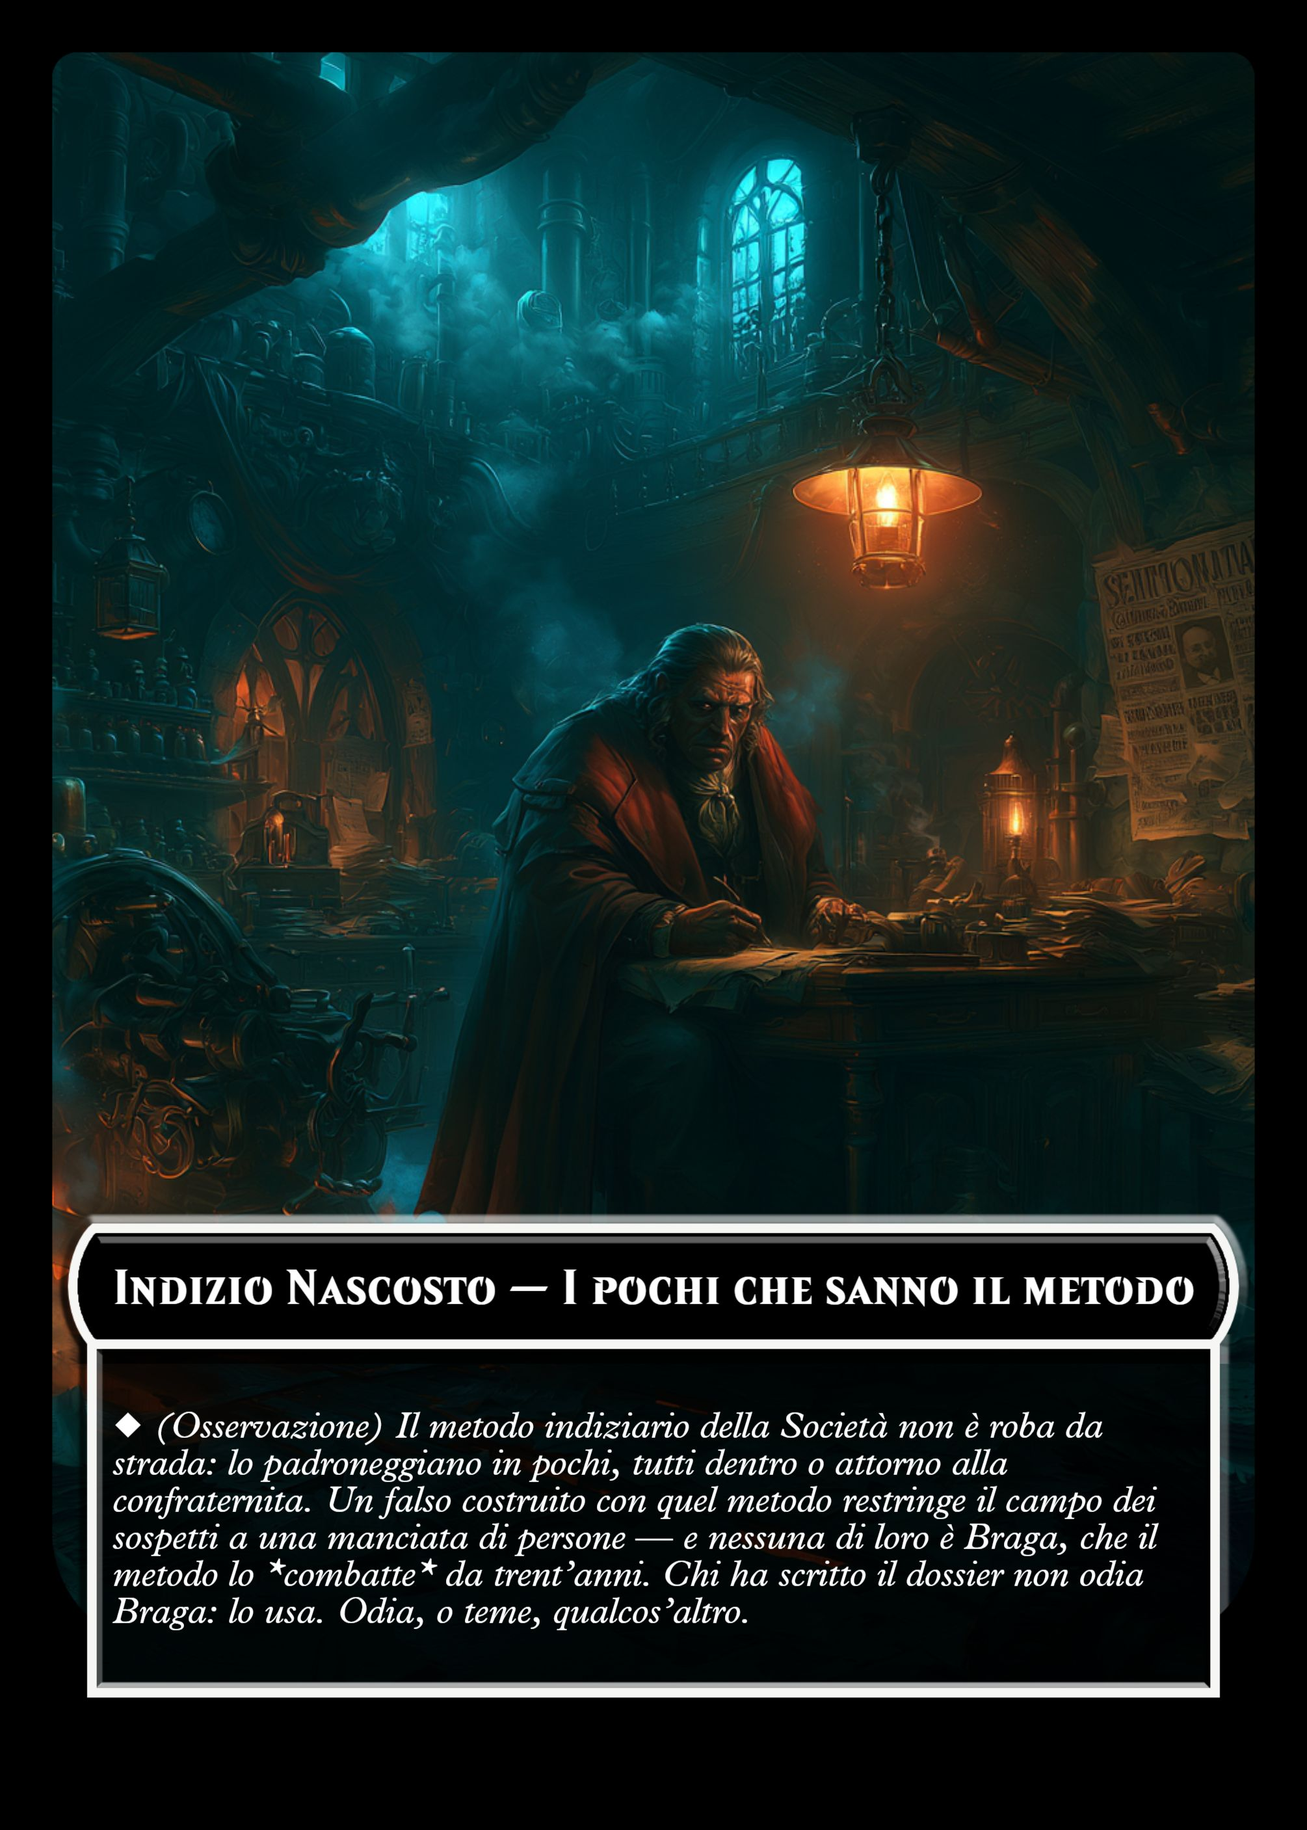
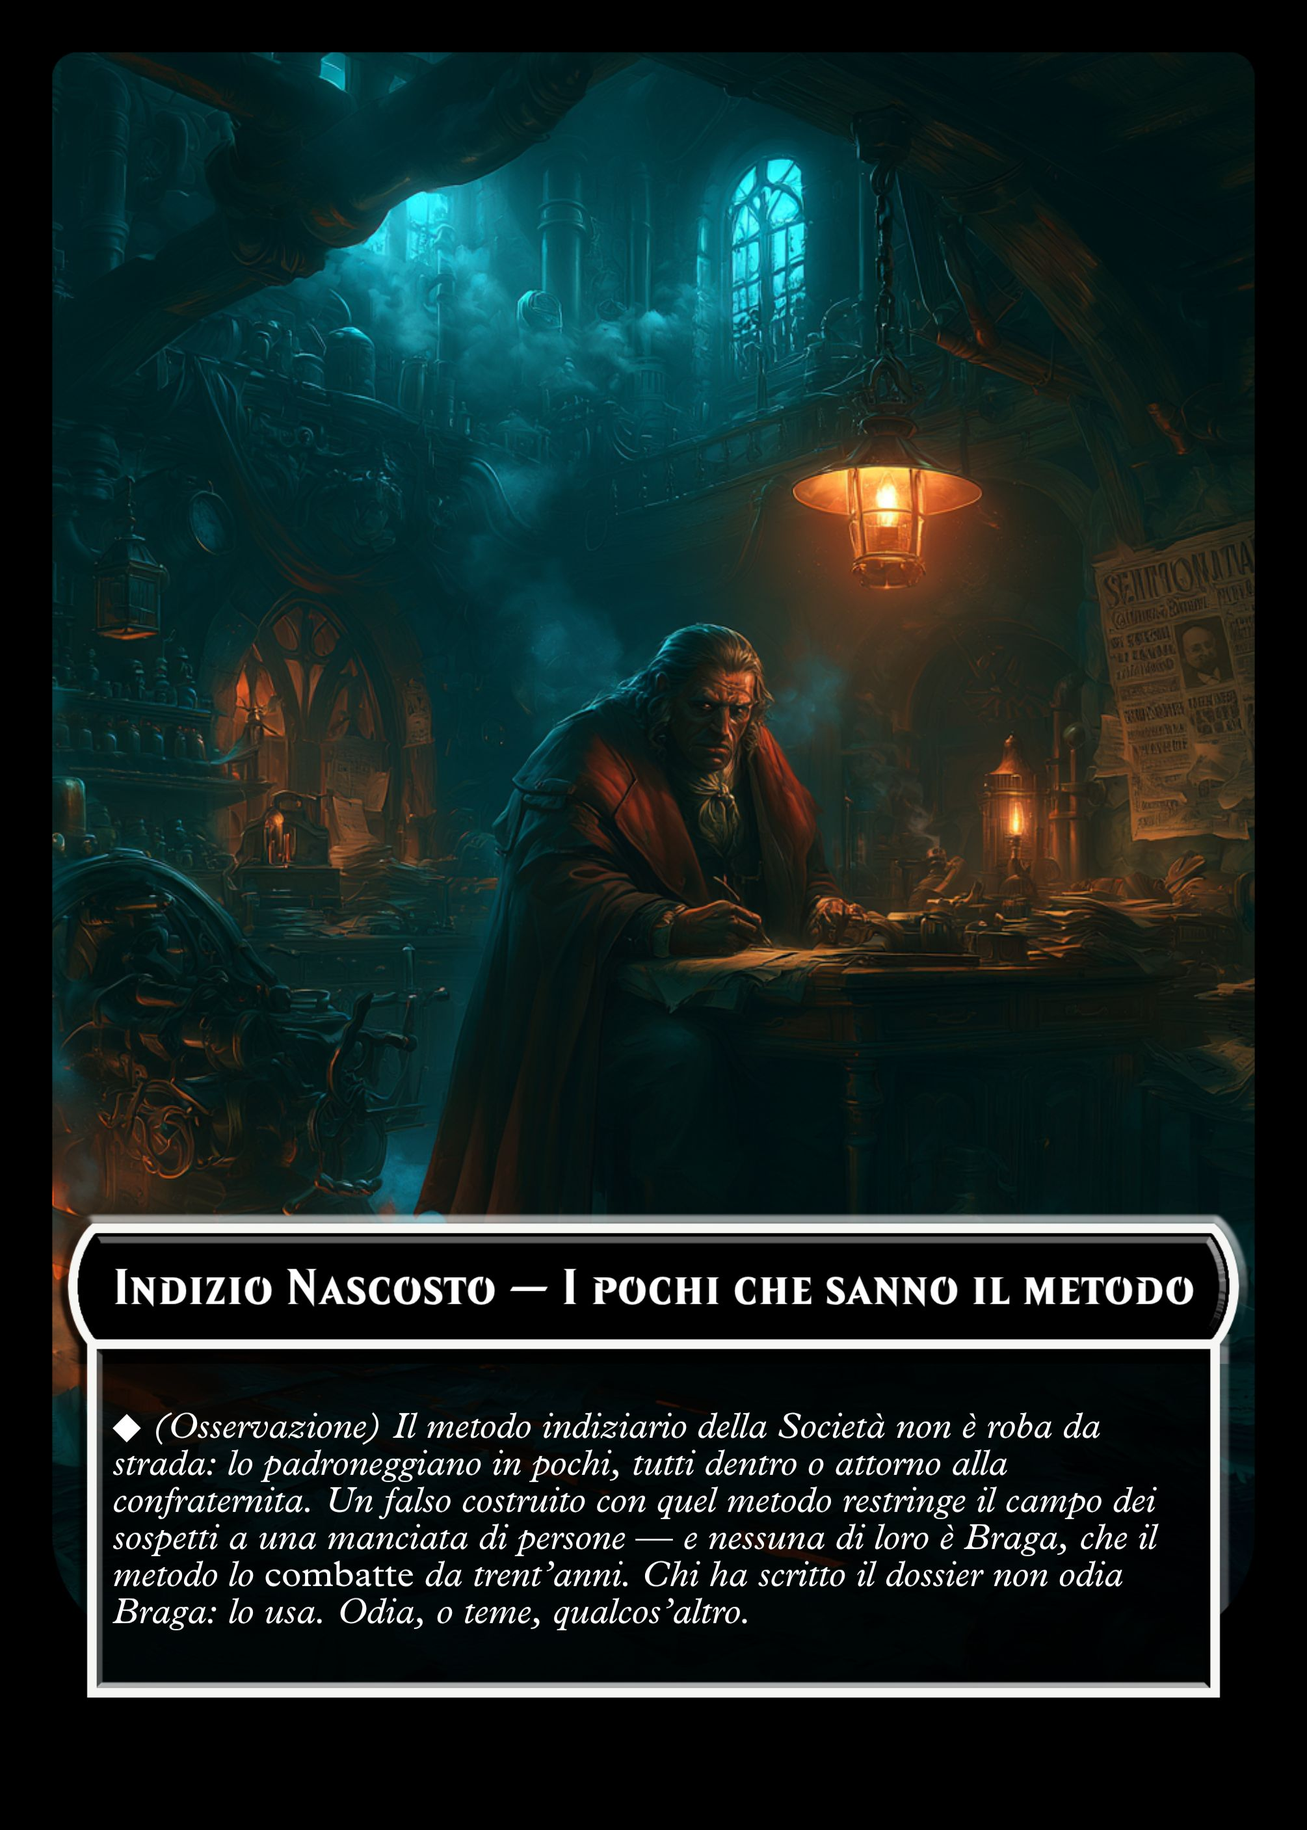
Genera carte Ep.15 mancanti e correggi asterischi letterali nel testo
Le carte "2 · Il Tribunale" e "Testimone — Il vecchio giudice" avevano
già arte e dati completi ma non erano mai state renderizzate.

In 7 punti di cards-data.js (Ep.15 e Ep.18) il testo degli
Approfondimenti usava *parola* in stile Markdown per un'enfasi
dentro un blocco già tutto in corsivo {i}...{/i}: Card Conjurer non
interpreta quella sintassi e stampava gli asterischi alla lettera,
anche su una carta già pubblicata (Ep.18 "Le due maschere allo
specchio"). Sostituiti con {/i}parola{i}, coerente con l'uso di
{i}/{/i} già presente altrove nel file, e rigenerate le 6 carte
coinvolte.

AUDIT-ARTEFATTI.md aggiornato con lo stato finale di ogni voce del
punto 2 (falsi positivi confermati, fix applicati, elementi bloccati
su nuova arte o scrittura mai fatta).

Claude-Session: https://claude.ai/code/session_0129n3j6LLiEkE6FQr2QM6hA

Changed region(s): [[0.0925, 0.7729, 0.8637, 0.8966]]

diff --git a/scripts/cardconjurer/cards-data.js b/scripts/cardconjurer/cards-data.js
@@ -3499,21 +3499,21 @@ const LUOGHI15 = [
     testo: 'Custodisce il plico anonimo: il dossier che combacia in ogni riga. I pagamenti, però, li ha verificati la Gendarmeria stessa, sportello per sportello: quella parte non l’ha regalata nessuno. Il mandato è già battuto a macchina e manca solo la vostra firma.',
     approfondimenti: [
       { tipo: 'Referto', soggetto: 'Il dossier troppo pulito',
-        testo: 'Ogni prova del dossier regge alla verifica: ed è proprio questo il problema. Un caso vero ha crepe, contraddizioni, testimoni che si smentiscono. Questo no: combacia riga per riga, come un teorema scritto all’indietro dalla soluzione. Chi lo ha cucito non ha *raccolto* prove — le ha *disposte*, perché tornassero. La domanda giusta non è se Braga sia colpevole. È chi ha avuto la mano tanto ferma da renderlo perfetto.' },
+        testo: 'Ogni prova del dossier regge alla verifica: ed è proprio questo il problema. Un caso vero ha crepe, contraddizioni, testimoni che si smentiscono. Questo no: combacia riga per riga, come un teorema scritto all’indietro dalla soluzione. Chi lo ha cucito non ha {/i}raccolto{i} prove — le ha {/i}disposte{i}, perché tornassero. La domanda giusta non è se Braga sia colpevole. È chi ha avuto la mano tanto ferma da renderlo perfetto.' },
     ] },
   { n: 2, nome: 'Il Tribunale', req: 'Disponibile dall’inizio',
     art: 'artworks/Il Tribunale.png',
     testo: 'Prepara il processo del secolo: il rivale del presidente inchiodato dal metodo della Società stessa. Agli atti, trent’anni di guerra dichiarata e una seduta di dodici anni fa: «vi smonterò uno per uno, con le vostre stesse carte». È scritto, è datato, e non l’ha fabbricato nessuno la settimana scorsa.',
     approfondimenti: [
       { tipo: 'Testimonianza', soggetto: 'Il vecchio giudice',
-        testo: '«Ve lo dico perché sono troppo vecchio per aver paura: quel dossier non l’ha scritto un nemico di Braga. L’ha scritto un allievo del vostro metodo — uno che sa come la Società legge un uomo dagli inchiostri e dalle abitudini, e ha *disposto* gli inchiostri e le abitudini perché li leggeste così. È un falso fatto con la vostra grammatica. E di gente che conosce la vostra grammatica, a Roccamora, ce n’è pochissima. Contatela.»' },
+        testo: '«Ve lo dico perché sono troppo vecchio per aver paura: quel dossier non l’ha scritto un nemico di Braga. L’ha scritto un allievo del vostro metodo — uno che sa come la Società legge un uomo dagli inchiostri e dalle abitudini, e ha {/i}disposto{i} gli inchiostri e le abitudini perché li leggeste così. È un falso fatto con la vostra grammatica. E di gente che conosce la vostra grammatica, a Roccamora, ce n’è pochissima. Contatela.»' },
     ] },
   { n: 3, nome: 'La Gazzetta di Roccamora', req: 'Disponibile dall’inizio',
     art: 'artworks/Gazzetta di Roccamora.png',
     testo: 'Ha già il titolo — «IL MOSTRO HA UN VOLTO» — ma Ranuzzi fiuta la scena montata. Qui si sa chi, a Roccamora, padroneggia il metodo indiziario: una manciata di nomi, tutti attorno alla confraternita.',
     approfondimenti: [
       { tipo: 'Osservazione', soggetto: 'I pochi che sanno il metodo',
-        testo: 'Il metodo indiziario della Società non è roba da strada: lo padroneggiano in pochi, tutti dentro o attorno alla confraternita. Un falso costruito con quel metodo restringe il campo dei sospetti a una manciata di persone — e nessuna di loro è Braga, che il metodo lo *combatte* da trent’anni. Chi ha scritto il dossier non odia Braga: lo usa. Odia, o teme, qualcos’altro.' },
+        testo: 'Il metodo indiziario della Società non è roba da strada: lo padroneggiano in pochi, tutti dentro o attorno alla confraternita. Un falso costruito con quel metodo restringe il campo dei sospetti a una manciata di persone — e nessuna di loro è Braga, che il metodo lo {/i}combatte{i} da trent’anni. Chi ha scritto il dossier non odia Braga: lo usa. Odia, o teme, qualcos’altro.' },
     ] },
   { n: 4, nome: 'La Stanza del Testimone', req: 'Disponibile dall’inizio',
     art: 'artworks/La Stanza del Testimone.png',
@@ -3544,7 +3544,7 @@ const LUOGHI15 = [
     testo: 'Dove il dossier fisico attende il processo: carta e inchiostro alla lente rivelano settimane, non trent’anni. Un dossier nato già archiviato — coi suoi numeri, le sue buste — come una messinscena che porta la propria catalogazione.',
     approfondimenti: [
       { tipo: 'Referto', soggetto: 'Il dossier nato archiviato',
-        testo: 'Un dossier vero cresce per accumulo: un foglio oggi, un altro tra un mese, inchiostri e carte di epoche diverse. Questo è nato tutto insieme, stessa carta, stesso inchiostro fresco, già impaginato e numerato come una pratica chiusa. Non è la prova di un delitto trentennale: è la *rappresentazione* di un delitto trentennale, prodotta in una settimana da chi sapeva esattamente che aspetto deve avere una prova per essere creduta.' },
+        testo: 'Un dossier vero cresce per accumulo: un foglio oggi, un altro tra un mese, inchiostri e carte di epoche diverse. Questo è nato tutto insieme, stessa carta, stesso inchiostro fresco, già impaginato e numerato come una pratica chiusa. Non è la prova di un delitto trentennale: è la {/i}rappresentazione{i} di un delitto trentennale, prodotta in una settimana da chi sapeva esattamente che aspetto deve avere una prova per essere creduta.' },
     ] },
   { n: 8, nome: 'La Bottega dell’Incisore',
     req: 'La bottega dell’incisore apre a chi ha capito che il dossier che combacia è stato fabbricato, non trovato: qualcuno ha inciso quelle prove.',
@@ -3560,7 +3560,7 @@ const LUOGHI15 = [
     testo: 'Di notte, prima del sigillo: dentro, gli Apparecchiatori posano gli ultimi tocchi del falso e cancellano le tracce del proprio lavoro. È l’unico posto dove la scena è ancora viva — dopo il sigillo, resterà solo la versione ufficiale.',
     approfondimenti: [
       { tipo: 'Presagio', soggetto: 'La scena da smontare',
-        testo: 'Nella villa silenziosa, ogni cosa è al suo posto — ed è proprio questa perfezione a gridare il falso. Gli Apparecchiatori non rubano e non uccidono: *scrivono*, con oggetti invece che con parole, la colpevolezza di un innocente. Salvarne i tell prima che li cancellino, e prima che il sigillo cali, è l’unico modo di riavvolgere la scena e leggere, sotto, la mano che l’ha diretta. Chiunque sia, stanotte è ancora qui, e ha fretta quanto voi.' },
+        testo: 'Nella villa silenziosa, ogni cosa è al suo posto — ed è proprio questa perfezione a gridare il falso. Gli Apparecchiatori non rubano e non uccidono: {/i}scrivono{i}, con oggetti invece che con parole, la colpevolezza di un innocente. Salvarne i tell prima che li cancellino, e prima che il sigillo cali, è l’unico modo di riavvolgere la scena e leggere, sotto, la mano che l’ha diretta. Chiunque sia, stanotte è ancora qui, e ha fretta quanto voi.' },
     ] },
 ].map((L) => ({
   art: L.art,
@@ -4217,7 +4217,7 @@ const LUOGHI18 = [
     testo: 'Dove non siete mai entrati in diciotto mesi: alle pareti, il ritratto del Machiavelli e, di fronte, uno specchio. Le due maschere si guardano. Qui M. era C.B. e C.B. era M., ogni notte, da solo.',
     approfondimenti: [
       { tipo: 'Presagio', soggetto: 'Le due maschere allo specchio',
-        testo: 'Nello studio privato del presidente, il ritratto del Machiavelli e lo specchio si fronteggiano: e ora capite. M. non serviva un padrone né temeva un rivale — M. *era* il rivale, l’altra faccia di sé. Camillo Benso e il suo specchio, il cospiratore e il contabile, le due mani con cui «si fa un’Italia». Si è dato la caccia da sé per anni, muovendo entrambi i lati del tavolo, perché un uomo che si crede la storia non ha bisogno di complici: ha bisogno di un palcoscenico. E il palcoscenico eravate voi.' },
+        testo: 'Nello studio privato del presidente, il ritratto del Machiavelli e lo specchio si fronteggiano: e ora capite. M. non serviva un padrone né temeva un rivale — M. {/i}era{i} il rivale, l’altra faccia di sé. Camillo Benso e il suo specchio, il cospiratore e il contabile, le due mani con cui «si fa un’Italia». Si è dato la caccia da sé per anni, muovendo entrambi i lati del tavolo, perché un uomo che si crede la storia non ha bisogno di complici: ha bisogno di un palcoscenico. E il palcoscenico eravate voi.' },
     ] },
   { n: 6, nome: 'La Carta di Pregio',
     req: 'Il richiamo alla carta di pregio si apre a chi ricollega la firma di C.B. alla penna del presidente: l’inchiostro del presidente sul giglio spezzato.',

diff --git a/AUDIT-ARTEFATTI.md b/AUDIT-ARTEFATTI.md
@@ -135,36 +135,73 @@ quasi 200 luoghi).
 
 ## 2. Problemi gravi specifici (non sistemici, ma seri)
 
-- **Ep.13 — fuga di spoiler (ALTA)**: tre carte Approfondimento (2 Testimoni, 1
-  Referto) rivelano esplicitamente "una fermata in più al Palazzo del Lume", il
-  segreto di campagna che la Soluzione dice testualmente di non svelare prima
+- **Ep.13 — fuga di spoiler (ALTA)** — *non corretto, lasciato alla decisione
+  dell'autore*: tre carte Approfondimento (2 Testimoni, 1 Referto) rivelano
+  esplicitamente "una fermata in più al Palazzo del Lume", il segreto di
+  campagna che la Soluzione dice testualmente di non svelare prima
   dell'Episodio 18. Nessuna fuga simile trovata negli altri episodi controllati
-  (14, 15, 17 espliciti "nessuno spoiler rilevato").
-- **Ep.15 — tre carte intere mancanti (ALTA)**: manca la carta Luogo "Il
-  Tribunale" (uno dei 4 luoghi iniziali), la carta Testimone "Il vecchio
-  giudice" e la carta Oggetto "Un Ritaglio del Dossier", tutte e tre citate nei
-  fascicoli come esistenti/ottenibili.
-- **Ep.19 — contraddizione narrativa strutturale (ALTA)**: i gendarmi comuni
-  sono narrati come "onesti, in buona fede" (poliziotti ingannati) ma
-  meccanicamente sono istanze del mostro "Lo Sgherro", la cui scheda Bestiario
-  li descrive come Malavita/criminali pagati dal culto — caratterizzazione
-  opposta. Manca inoltre del tutto la carta Nemico "Lo Sgherro" nel mazzo.
-- **Ep.20 (finale) — conteggio Frammenti incoerente (ALTA)**: la Soluzione
-  elenca i Frammenti del "canto del sonno" come 9 numeri a pag.2 (1-7, 11, 20)
-  ma a pag.4 li richiama come "nove" mostrandone solo 8 (manca il 20) — un
-  errore nel conteggio decisivo per la deduzione del finale di campagna.
+  (14, 15, 17 espliciti "nessuno spoiler rilevato"). Rileggendo le quattro
+  carte coinvolte non si può escludere che sia foreshadowing intenzionale
+  (un indizio ambiguo che acquista senso solo a posteriori) piuttosto che un
+  refuso di scrittura: serve un giudizio d'autore, non una correzione
+  automatica.
+- **Ep.15 — carte mancanti (ALTA)** — *2 di 3 risolte*: la carta Luogo "Il
+  Tribunale" e la carta Testimone "Il vecchio giudice" avevano già arte e dati
+  completi, non erano mai state renderizzate — **generate e verificate**. La
+  carta Oggetto "Un Ritaglio del Dossier" resta mancante: non esiste alcuna
+  voce corrispondente in `cards-data.js` (non solo l'immagine — il testo
+  stesso della carta non è mai stato scritto), quindi non è un rendering
+  mancante ma un buco di contenuto vero e proprio (vedi anche punto successivo).
+- **Ep.19 — contraddizione narrativa strutturale (ALTA)** — ***falso
+  positivo, non era un bug***: la carta Nemico "Lo Sgherro" esiste
+  regolarmente (`Comune/cards/Nemici/Lo Sgherro.jpg`, insieme a "Il
+  Sicario.jpg") — l'audit del singolo episodio non l'aveva trovata perché è
+  condivisa in `Comune/` invece che nel mazzo di Ep.19. Sulla presunta
+  contraddizione: il boss unico di Ep.19, l'Ispettore Vidal, ha una scheda
+  con testo di regole dedicato (`cards-data.js` riga 4626) che spiega
+  esplicitamente che va convinto, non ucciso — la caratterizzazione
+  "onesti ma ingannati" vs. "Malavita pagata" non è incoerente, distingue
+  proprio i gendarmi comuni (Sgherro) dal loro superiore corrotto.
+- **Ep.20 (finale) — conteggio Frammenti incoerente (ALTA)** — ***falso
+  positivo, non era un bug***: rileggendo per intero il contesto in
+  `src/gen_ep20.py`, i due elenchi di Frammenti coprono cose diverse (uno è
+  l'elenco completo di riferimento, l'altro la sotto-lista effettivamente
+  raccolta in quella run); il "nove" a pag.4 è coerente col proprio elenco,
+  non con quello di pag.2.
 - **Ep.20 — 5 tessere su 6 non esistono (ALTA, stato)**: `board/` ha solo T1;
   mancano T2-T6 e i relativi sorgenti in `artworks/`. Probabilmente l'arte del
-  finale non è ancora stata prodotta, non un bug di generazione.
-- **Contenuto non finalizzato — "Effetto: nessuno finora scoperto" (ALTA)**:
-  quattro carte Oggetto in tre episodi diversi hanno questo testo placeholder al
-  posto di un vero effetto di gioco: Ep.18 (L'Accusa Pronta contro di Voi, Il
-  Ritratto del Rivale), Ep.19 (La Taglia da Riscuotere, La Via Facile), Ep.20
-  (Il Grimorio del Rito, La Chiave del Coro) — sei carte in tutto.
-- **Oggetto citato ma mancante dal mazzo (ALTA)**: bug ricorrente distinto dal
-  precedente — Ep.10 ("Una Lanterna a Olio"), Ep.11 ("Una Corda di Servizio"),
-  Ep.12 ("Un Remo di Scorta"), Ep.14 ("Una Fune Leggera"): la tessera/il
-  fascicolo dice di prendere un oggetto che non esiste nel mazzo Oggetti.
+  finale non è ancora stata prodotta, non un bug di generazione. **Bloccato**,
+  serve nuova arte (non generabile in questa sessione, nessun accesso di rete
+  a Midjourney).
+- **Contenuto non finalizzato — "Effetto: nessuno finora scoperto" (ALTA)** —
+  *non corretto, verosimilmente intenzionale*: il pattern ricorre 40 volte in
+  tutto il file (non solo le 6 carte segnalate durante l'audit), spesso con
+  una parentetica esplicativa nel testo stesso (es. "il tagliafuoco è
+  bloccato dalla ruggine da vent'anni", o riferimenti a un rito "inadvisable
+  da usare") che indica un oggetto di puro flavour, deliberatamente senza
+  meccanica — non un effetto dimenticato. Nessuna correzione applicata:
+  serve conferma dell'autore per trattarle diversamente.
+- **Oggetto citato ma mancante dal mazzo (ALTA)** — *confermato, bloccato*:
+  bug ricorrente distinto dal precedente — Ep.10 ("Una Lanterna a Olio"),
+  Ep.11 ("Una Corda di Servizio"), Ep.12 ("Un Remo di Scorta"), Ep.14 ("Una
+  Fune Leggera"), più "Un Ritaglio del Dossier" di Ep.15 di cui sopra: la
+  tessera/il fascicolo dice di prendere un oggetto che non esiste affatto
+  come voce in `cards-data.js` — non un mancato render ma un buco di
+  contenuto (testo dell'oggetto mai scritto). Servirebbe scrivere testo ed
+  effetto di 5 nuove carte Oggetto, e nella maggior parte dei casi anche
+  nuova arte: lavoro di game design/scrittura, non una correzione
+  automatica sicura da fare senza indicazioni dell'autore.
+- **Trovato durante il fix, non nell'audit originale — asterischi letterali
+  al posto del corsivo (ALTA)** — ***corretto***: 7 punti in
+  `cards-data.js` (Ep.15 e Ep.18) usavano `*parola*` in stile Markdown per
+  enfasi dentro un testo di Approfondimento già tutto in corsivo — ma il
+  motore di Card Conjurer non interpreta quella sintassi, e stampava gli
+  asterischi alla lettera sulla carta stampata (confermato anche su una
+  carta già pubblicata, Ep.18 "Le due maschere allo specchio"). Sostituiti
+  con `{/i}parola{i}` (il codice testo di Card Conjurer per uscire
+  temporaneamente dal corsivo, coerente con l'uso di `{i}/{/i}` già presente
+  altrove nello stesso file) e le 6 carte coinvolte rigenerate e verificate
+  visivamente.
 - **Miniature mancanti per un nemico del Bestiario (MEDIA/ALTA)**: la pagina
   "Miniature — ritagliare" di Spedizione.pdf non fornisce sempre un token per
   ogni nemico schedato — mancava per il Sicario Gentile (Ep.12), per uno tra
@@ -227,11 +264,34 @@ risolto:
    `pagina_stradario()` non paginava mai. **Fixato** in `src/gen_mappa.py`
    (controllo dello spazio residuo + pagina "stradario — segue"
    automatica) e rigenerato per tutti i bucket.
-4. **Fuga di spoiler in Ep.13** e **contraddizione narrativa in Ep.19** — non
-   sistemici ma rompono rispettivamente la struttura della campagna e la
-   coerenza del culto/Malavita. Vedi stato dei fix più sotto.
-5. **Oggetti citati ma mancanti** e **"Effetto: nessuno finora scoperto"** —
-   piccolo numero di carte. Vedi stato dei fix più sotto.
-6. **Riuso di artwork** (1.3, 1.4) — un problema di varietà visiva che
-   richiede nuova arte Midjourney: non risolvibile in questa sessione (nessun
-   accesso di rete a Midjourney), resta come lavoro futuro.
+4. ~~Contraddizione narrativa Ep.19~~ e ~~conteggio Frammenti Ep.20~~ —
+   verificati contro il codice sorgente e confermati **falsi positivi**,
+   nessuna modifica.
+5. **Asterischi letterali invece del corsivo** (trovato durante il fix, non
+   nell'audit originale) — bug di rendering confermato su 7 punti in Ep.15 e
+   Ep.18 (uno dei quali già stampato). **Fixato**: sostituiti con il codice
+   testo corretto di Card Conjurer e le 6 carte coinvolte rigenerate.
+6. **Ep.15, 2 carte su 3 mancanti** ("Il Tribunale", "Il vecchio giudice") —
+   arte e testo esistevano già, mancava solo il render. **Generate e
+   verificate.**
+7. **Fuga di spoiler in Ep.13** — lasciata **non corretta**: potrebbe essere
+   foreshadowing intenzionale piuttosto che un refuso; decisione che spetta
+   all'autore, non a una correzione automatica.
+8. **"Effetto: nessuno finora scoperto"** (40 occorrenze totali, non solo le 6
+   inizialmente segnalate) — lasciato **non corretto**: più indizi (parentetiche
+   esplicative nel testo) suggeriscono che sia flavour deliberato, non un
+   effetto dimenticato.
+9. **Bloccato, richiede lavoro di game design/scrittura oltre che di arte**:
+   5 carte Oggetto citate da fascicoli/tessere ma mai scritte in
+   `cards-data.js` — "Una Lanterna a Olio" (Ep.10), "Una Corda di Servizio"
+   (Ep.11), "Un Remo di Scorta" (Ep.12), "Una Fune Leggera" (Ep.14), "Un
+   Ritaglio del Dossier" (Ep.15).
+10. **Bloccato, richiede solo nuova arte** (nessun accesso di rete a
+    Midjourney in questa sessione): 5 carte Minaccia "Posseduto" di Ep.5/6 e
+    la carta Oggetto "Il Mazzo delle Minute" di Ep.16, tutte con dati di
+    carta già scritti ma `art:` che punta a un file inesistente in
+    `artworks/`; le 5 tessere T2-T6 del finale di Ep.20 (board e artwork
+    sorgente entrambi assenti).
+11. **Riuso di artwork** (1.3, 1.4) — un problema di varietà visiva che
+    richiede nuova arte Midjourney: non risolvibile in questa sessione,
+    resta come lavoro futuro.
